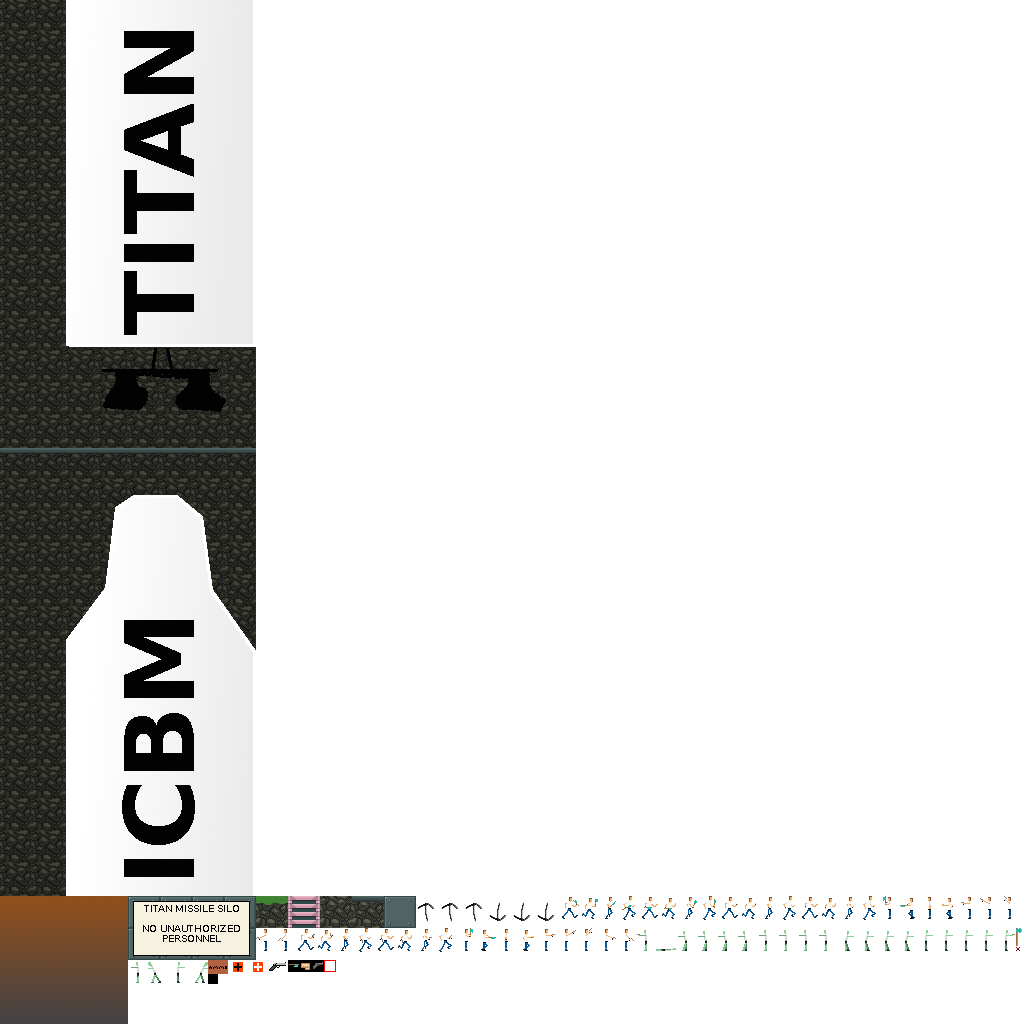
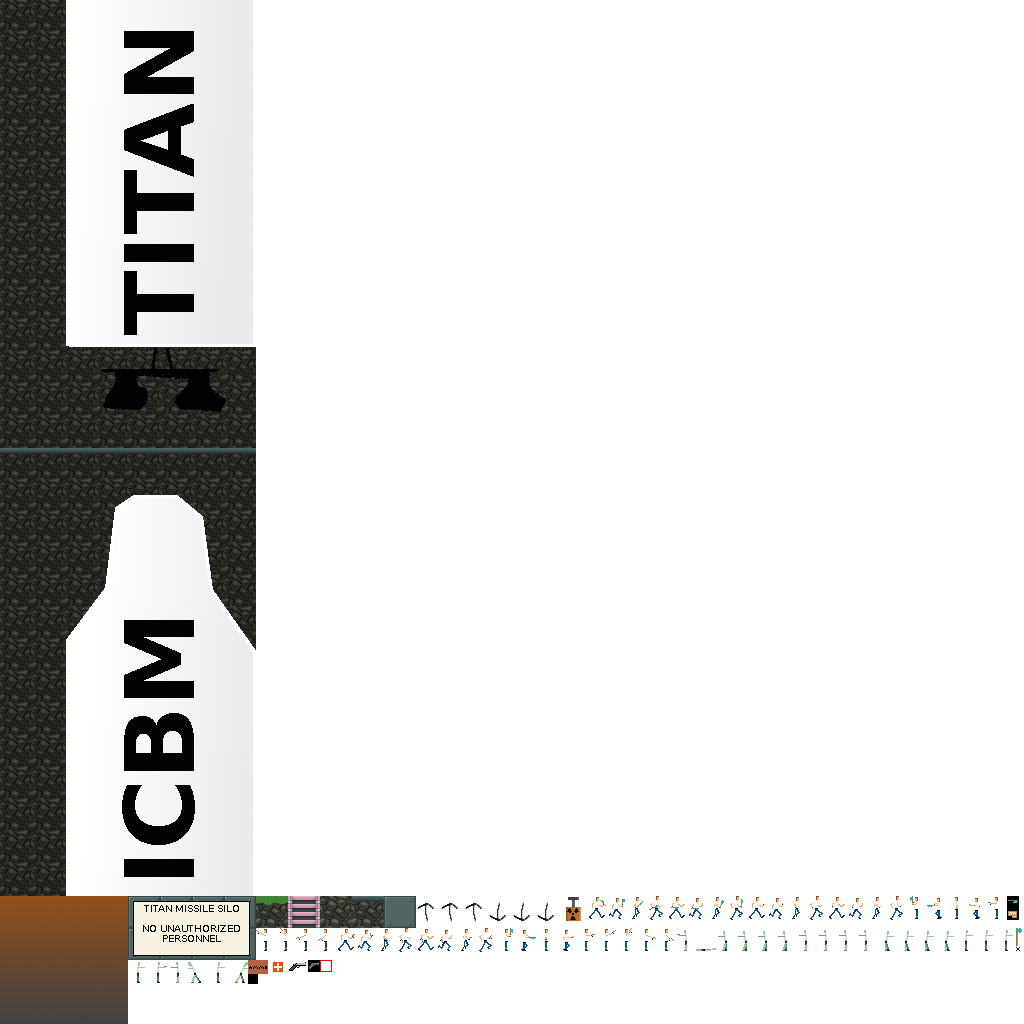
Updated the end item

Changed region(s): [[0.5312, 0.875, 1.0, 0.9375], [0.1875, 0.9062, 0.5, 0.9688], [0.125, 0.9375, 0.1562, 0.9688]]

diff --git a/actors.py b/actors.py
@@ -887,8 +887,8 @@ class HealthItem(Collectable):
 
 class EndItem(Collectable):
     texture = 'end_item.png'
-    width = 20
-    height = 14
+    width = 27
+    height = 25
 
     def Collect(self,owner):
         if isinstance(owner,Player) and not self.destroyed:
